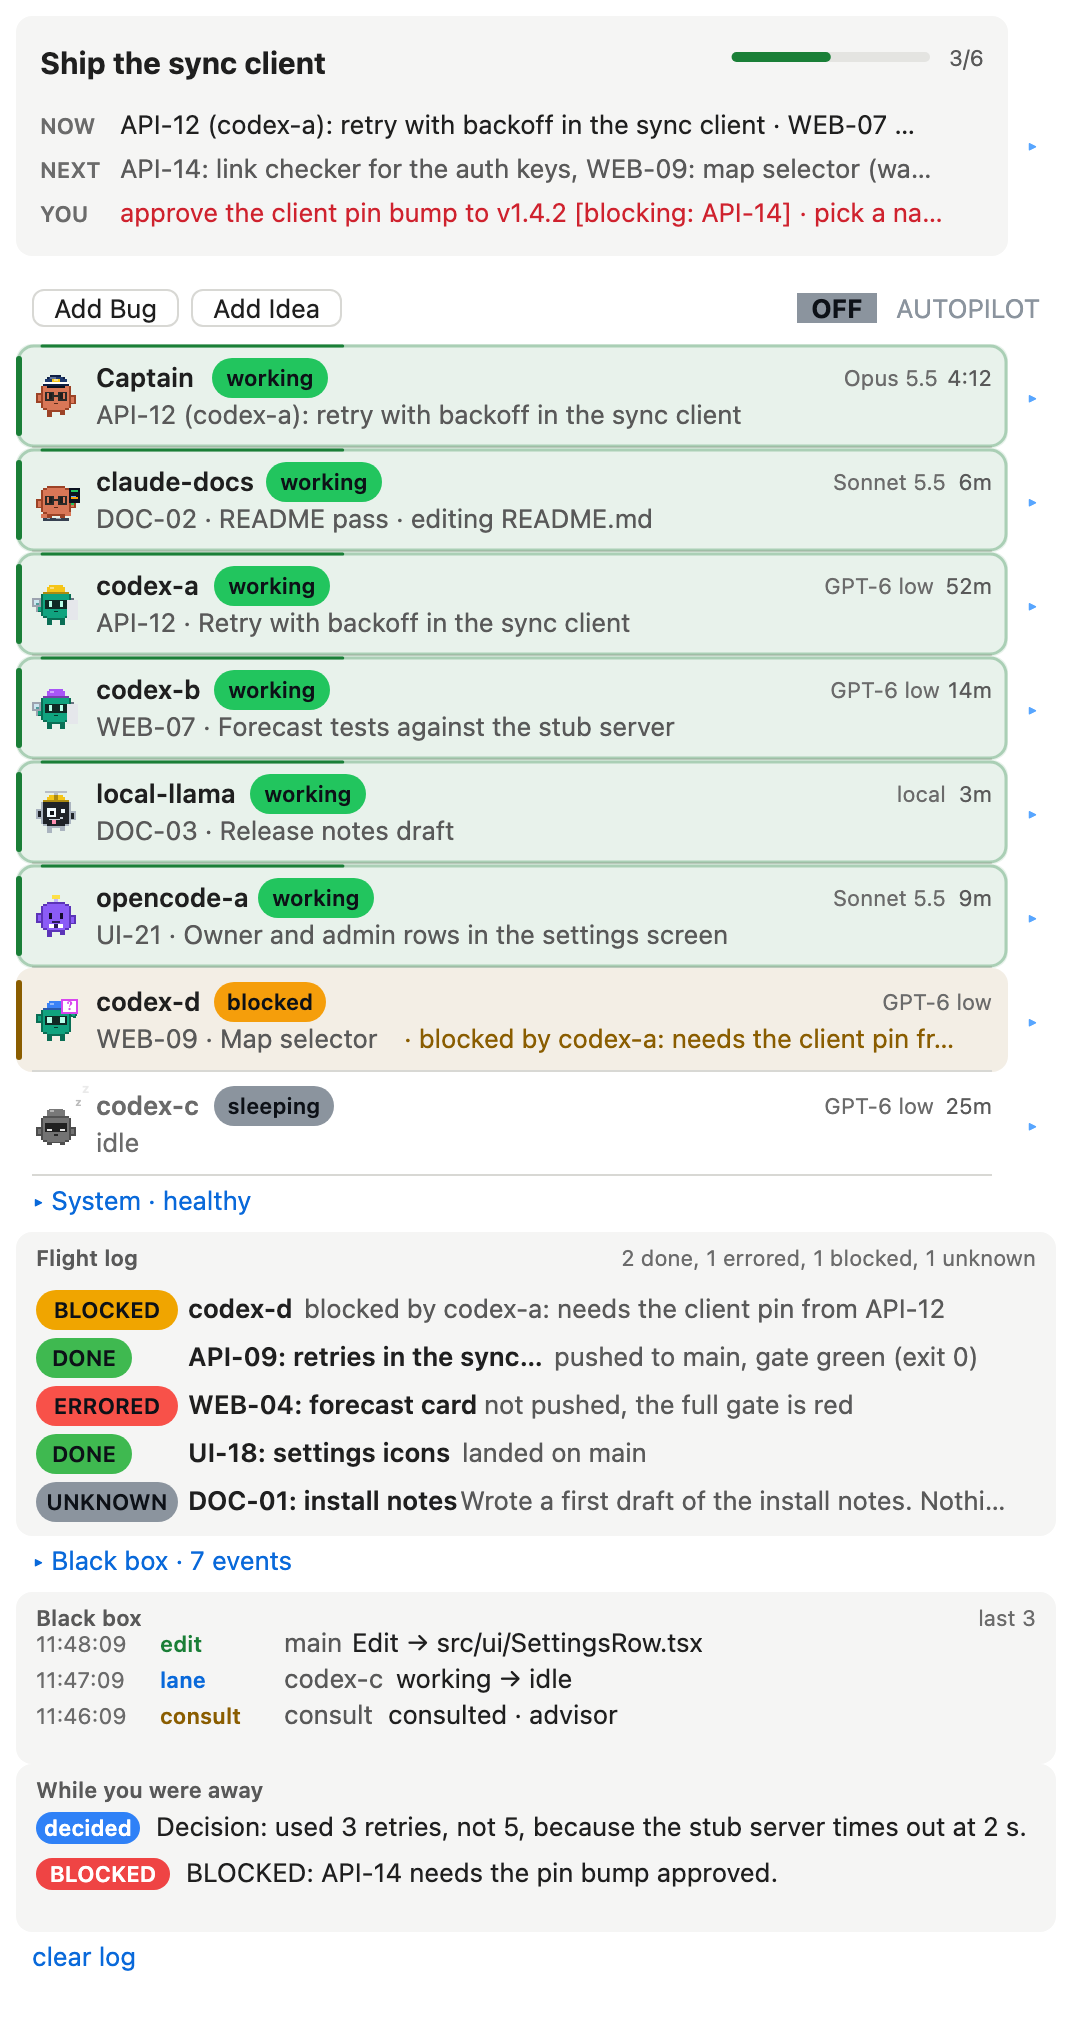
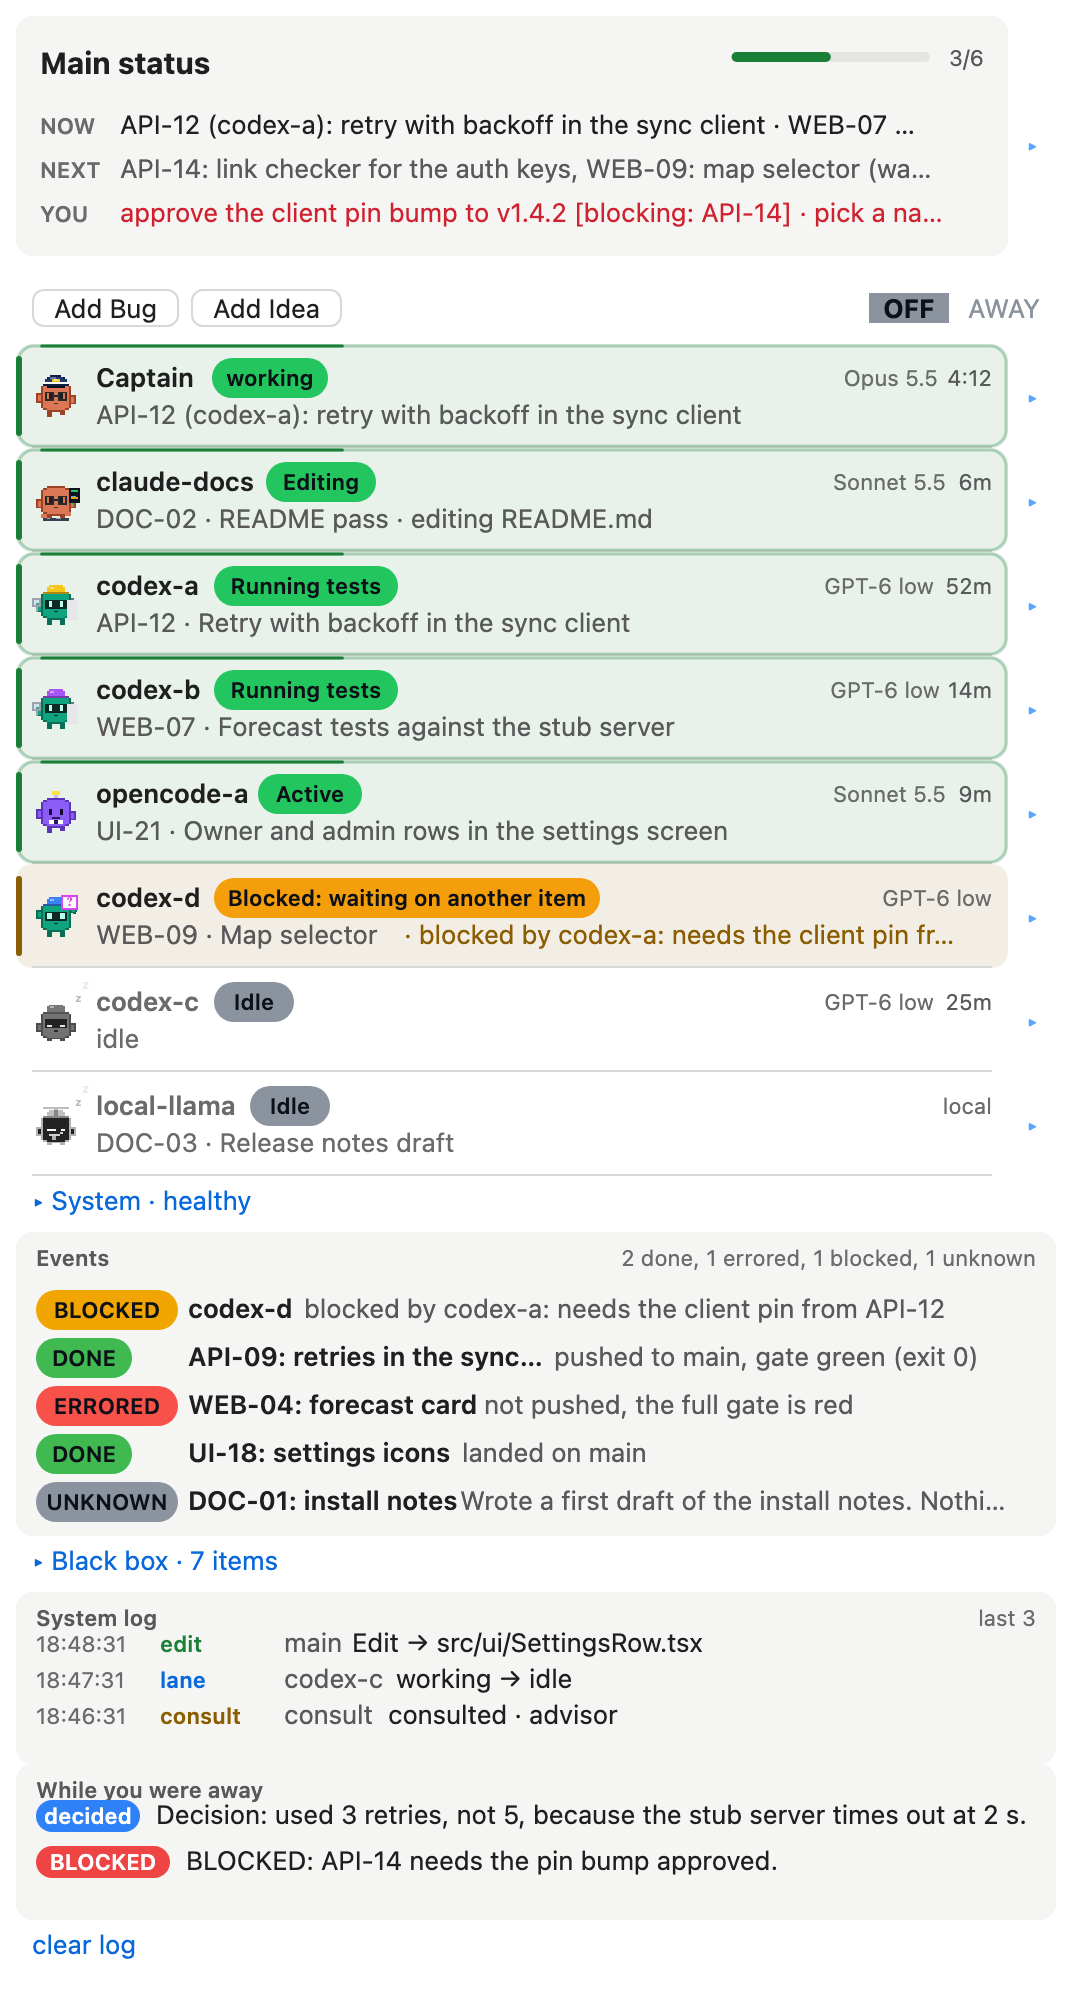
COCKPIT-56: the twin is the only cockpit codebase; the installer installs from it

diff --git a/tools/shot.ts b/tools/shot.ts
@@ -207,7 +207,7 @@ async function shoot(o: Opts): Promise<string> {
   const ls = lookStatus(o.statusOpen)
   const sh = statusHeight(RW, ls)
   add(`<div style="display:flex;align-items:center">${img(statusSvg(RW, ls), RW, sh)}${chevron(o.statusOpen)}</div>`, sh)
-  add(`<div style="display:flex;justify-content:space-between;align-items:center;padding:0 8px;height:36px"><div>${btn('Add Bug')}${btn('Add Idea')}</div><div><span style="background:#8B949E;color:#0d1117;font-weight:700;padding:0 4px">&nbsp;OFF&nbsp;</span> <span style="color:#8B949E;margin-left:6px">AUTOPILOT</span></div></div>`, 36)
+  add(`<div style="display:flex;justify-content:space-between;align-items:center;padding:0 8px;height:36px"><div>${btn('Add Bug')}${btn('Add Idea')}</div><div><span style="background:#8B949E;color:#0d1117;font-weight:700;padding:0 4px">&nbsp;OFF&nbsp;</span> <span style="color:#8B949E;margin-left:6px">AWAY</span></div></div>`, 36)
 
   const rows: { row: LookRow; open: boolean }[] = [{ row: captainRow(o.openRows.includes('Captain')), open: o.openRows.includes('Captain') }, ...built.map(b => ({ row: crewRow(b, o.openRows.includes(b.m.name)), open: o.openRows.includes(b.m.name) }))]
   for (const { row, open } of rows) {
@@ -215,7 +215,7 @@ async function shoot(o: Opts): Promise<string> {
     add(`<div style="display:flex;align-items:center">${img(rowSvg(RW, r), RW, rowHeight(r))}${chevron(open)}</div>`, rowHeight(r))
   }
 
-  const sys = systemSummary({ ...emptyReading, memFree: 58, swapMB: 0, load1: 2.1, cores: 10, diskFree: 62 }, null, false)
+  const sys = systemSummary({ ...emptyReading, memFree: 58, swapMB: 0, load1: 2.1, cores: 10, diskFree: 62 }, [], false)
   add(section((o.systemOpen ? '\u25be ' : '\u25b8 ') + 'System \u00b7 ' + sys.text.replace(/^System: /, '')), 28)
   const fh = flightHeight(flight.length)
   add(img(flightSvg(W, flight, flightSummary(flight)), W, fh), fh)

diff --git a/README.md b/README.md
@@ -208,6 +208,9 @@ adapted from them:
 
 Their notices are in [NOTICE](NOTICE).
 
+## One codebase (0.19.0)
+This repository is now the only Cockpit codebase. The hooks, tests and tools that used to live in a private copy are these, made generic through `hooks/config.ts`. Values that belong to one person (folder names, lane names, host aliases) are read from `~/.config/cockpit/config.json` and `.cockpit/config.json`, never from the repository. The demo pictures in `docs/img` were redrawn from `examples/project`, and `tools/shot.ts` now labels the switch AWAY and no longer fails on an empty host list.
+
 ## Text bar, AWAY (0.18.11)
 The status row above the input box is bar, title, count, then the right group. The bar is block-cell text instead of a picture (the live host dropped the picture), the title and count are plain bold text, and AUTOPILOT is now AWAY (the saved state file and the old `/cockpit autopilot` command are unchanged). The line under the input box shows only the session and agent count.
 
